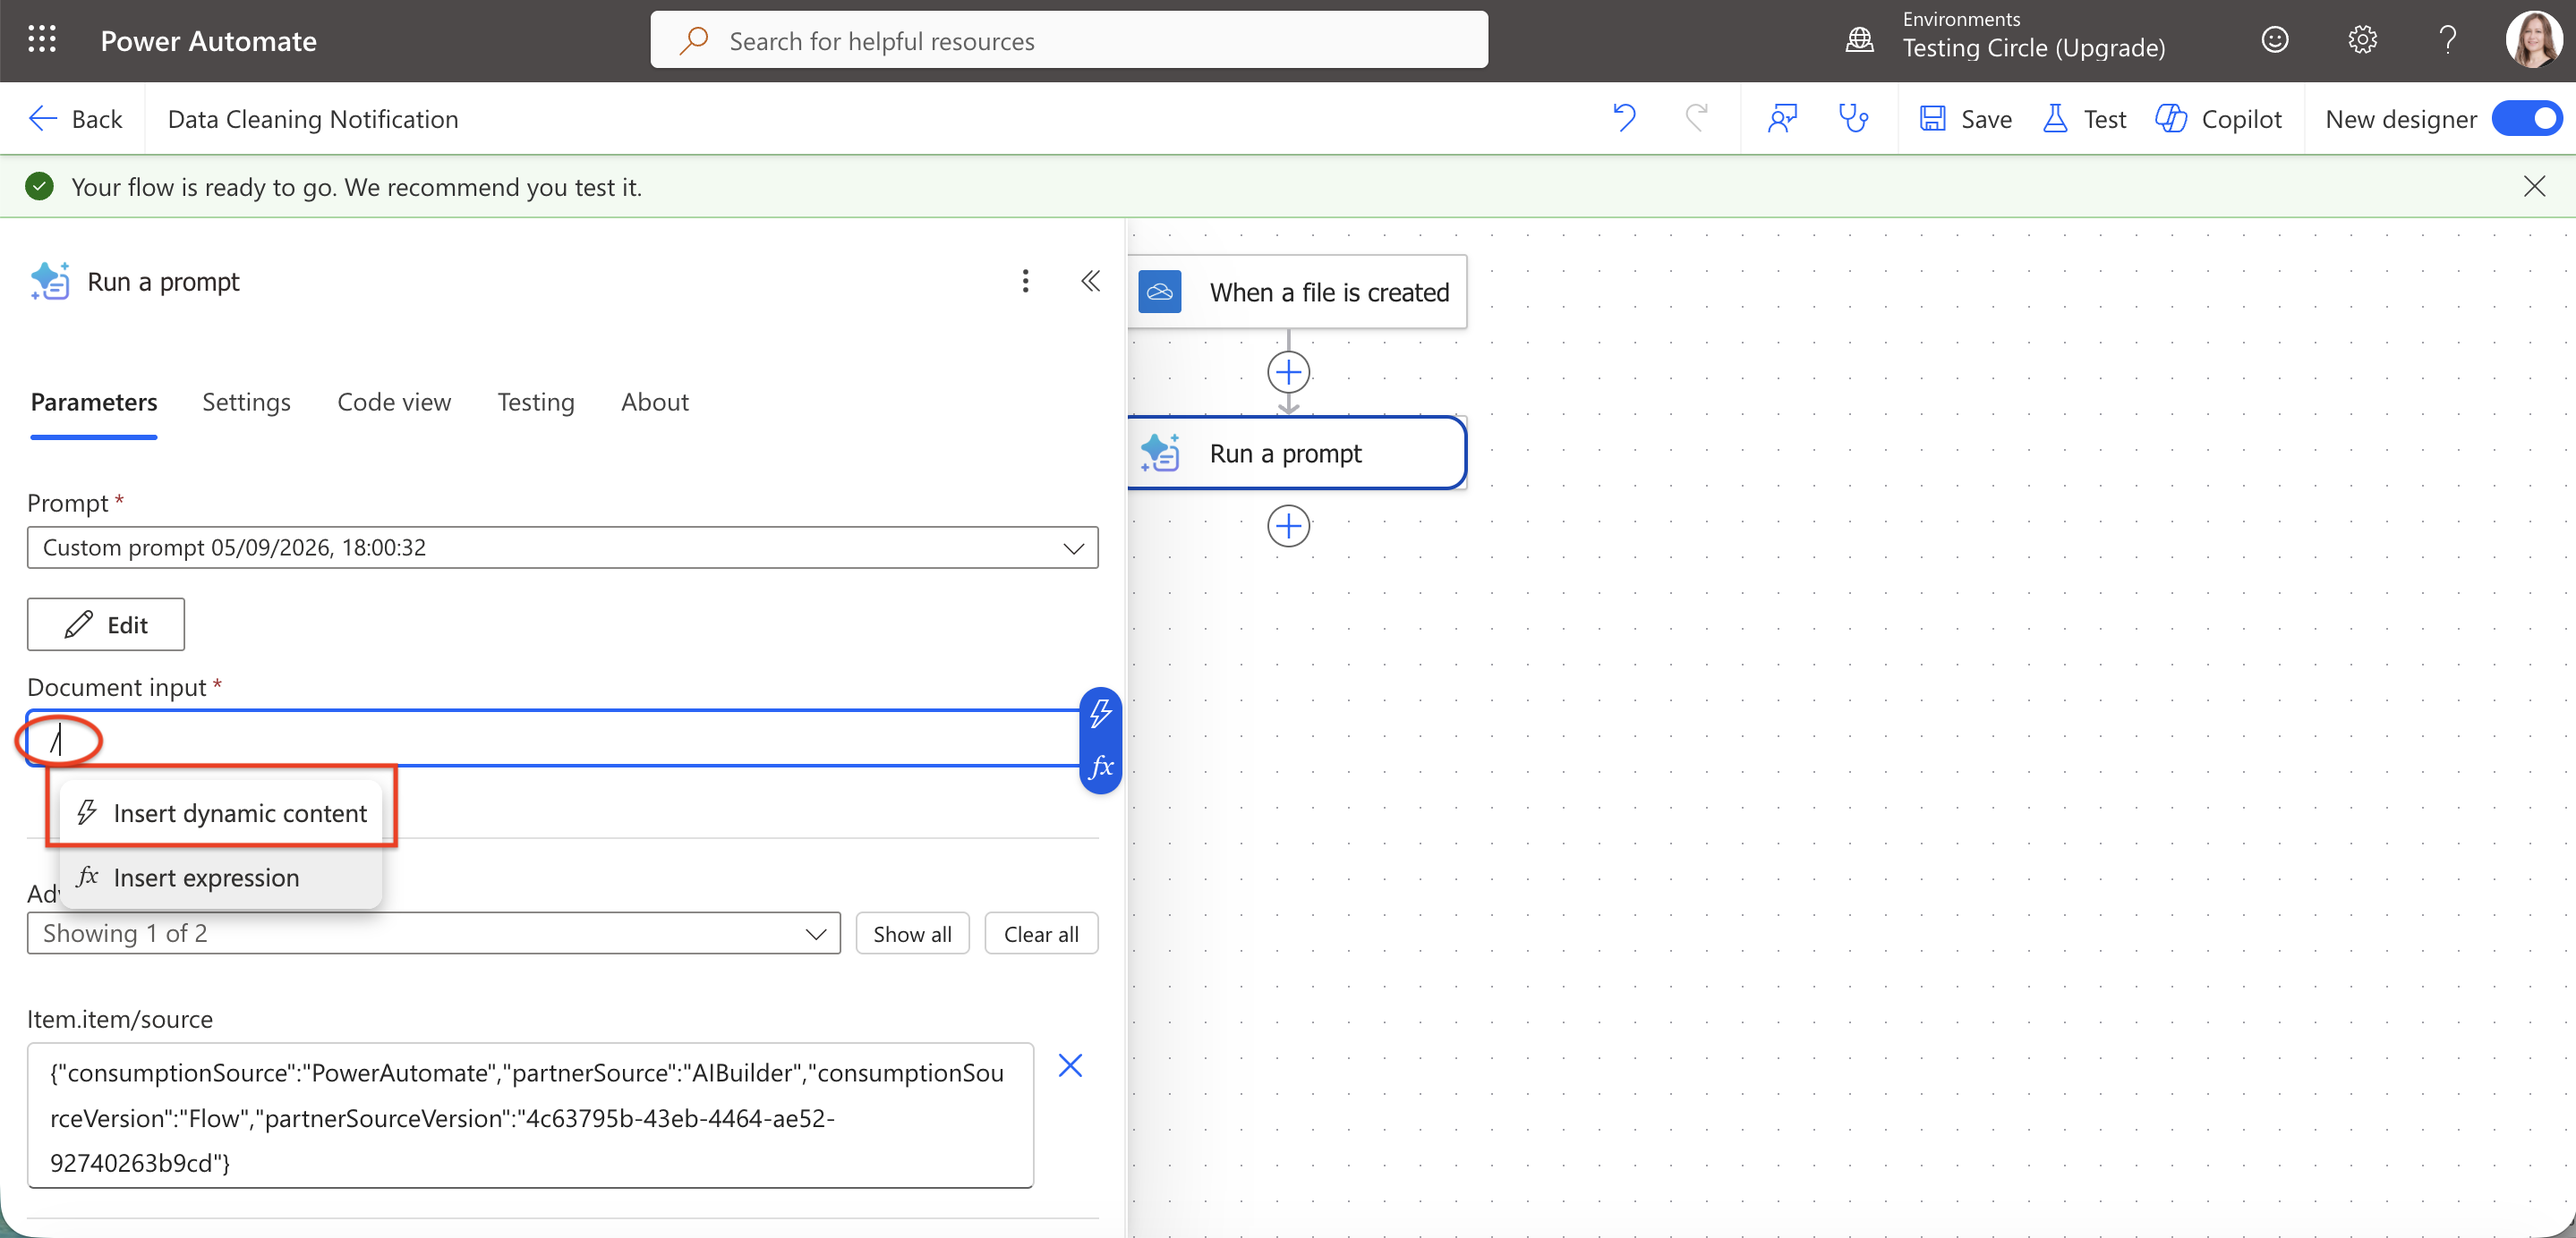
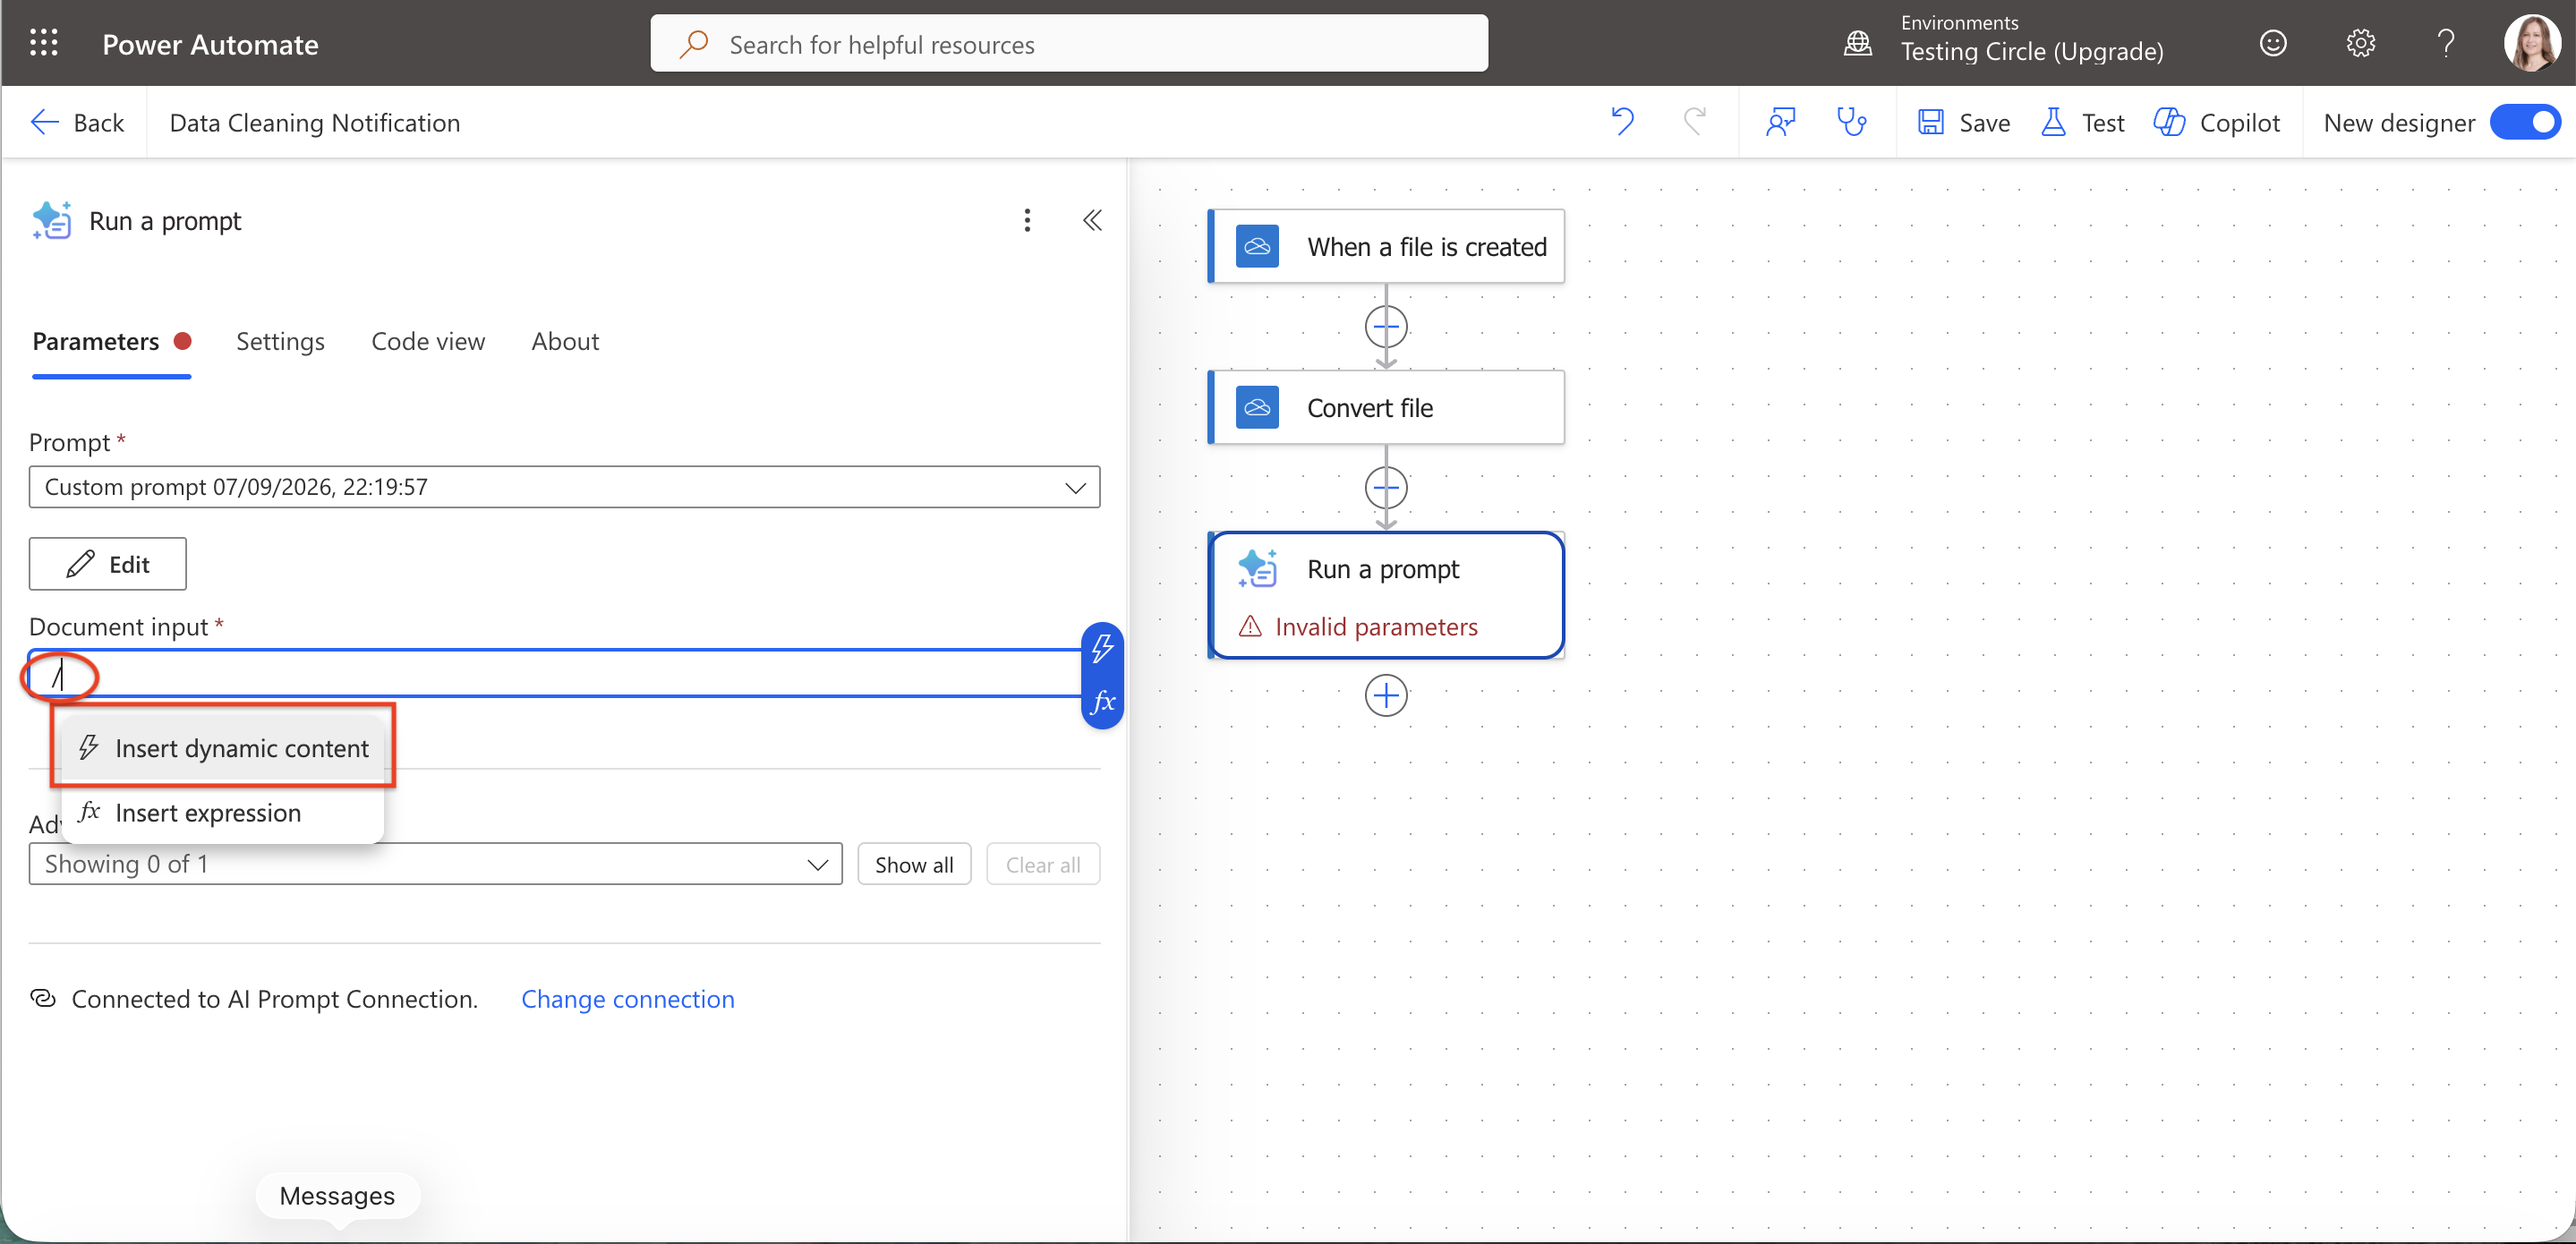
Update AI workflow documentation

diff --git a/ai-automated-workflow/README.md b/ai-automated-workflow/README.md
@@ -17,6 +17,8 @@ This project demonstrates an AI-powered automated workflow for cleaning Excel da
 
 ## Building the workflow in Power Automate
 
+> Note: While configuring the workflow, Power Automate may show messages such as `Invalid parameters` or `'Field' is required` when a required field has not yet been completed. These warnings are expected during configuration and disappear once the required fields are filled in.
+
 ### Prerequisite
 
 Before creating the flow, set up the folder in **OneDrive for Business** where the Excel files will be added. The trigger will monitor this folder for new files.
@@ -42,6 +44,8 @@ At this stage, the flow canvas may show an **Invalid parameters** message. This 
 4. Click the **When a file is created** box to expand the trigger settings.
 
 <img src="images/trigger-02.png" alt="Flow canvas showing the Invalid parameters message" width="700">
+
+> Note: The `Invalid parameters` warning is expected at this stage because the required folder has not been selected yet. It will disappear once the trigger is fully configured.
 
 5. Check the connection status. If it says **Not connected**, select the **Change connection** link.
 
@@ -95,7 +99,7 @@ Select `File identifier` under `When a file is created`.
 
 ### 3. AI Step
 
-1. Click the `+` below the trigger. The `Add an action` panel opens on the right.
+1. Click the `+` below `Convert file`. The `Add an action` panel opens on the right.
 
 <img src="images/ai-01.png" alt="Add an action panel" width="700">
 
@@ -118,6 +122,8 @@ The `Run a prompt` step has been added to the canvas as the second step in the f
 5. Select `New custom prompt`. None of the ready-made prompts are designed to check data type and format issues, so a custom prompt is needed.
 
 <img src="images/ai-05.png" alt="New custom prompt option" width="700">
+
+> Note: The `Invalid parameters` warning is expected at this stage. It just means the step isn't fully configured yet, not that something has gone wrong.
 
 6. In the `Custom Prompt` window, select the `+ Add content` button at the bottom.
 
